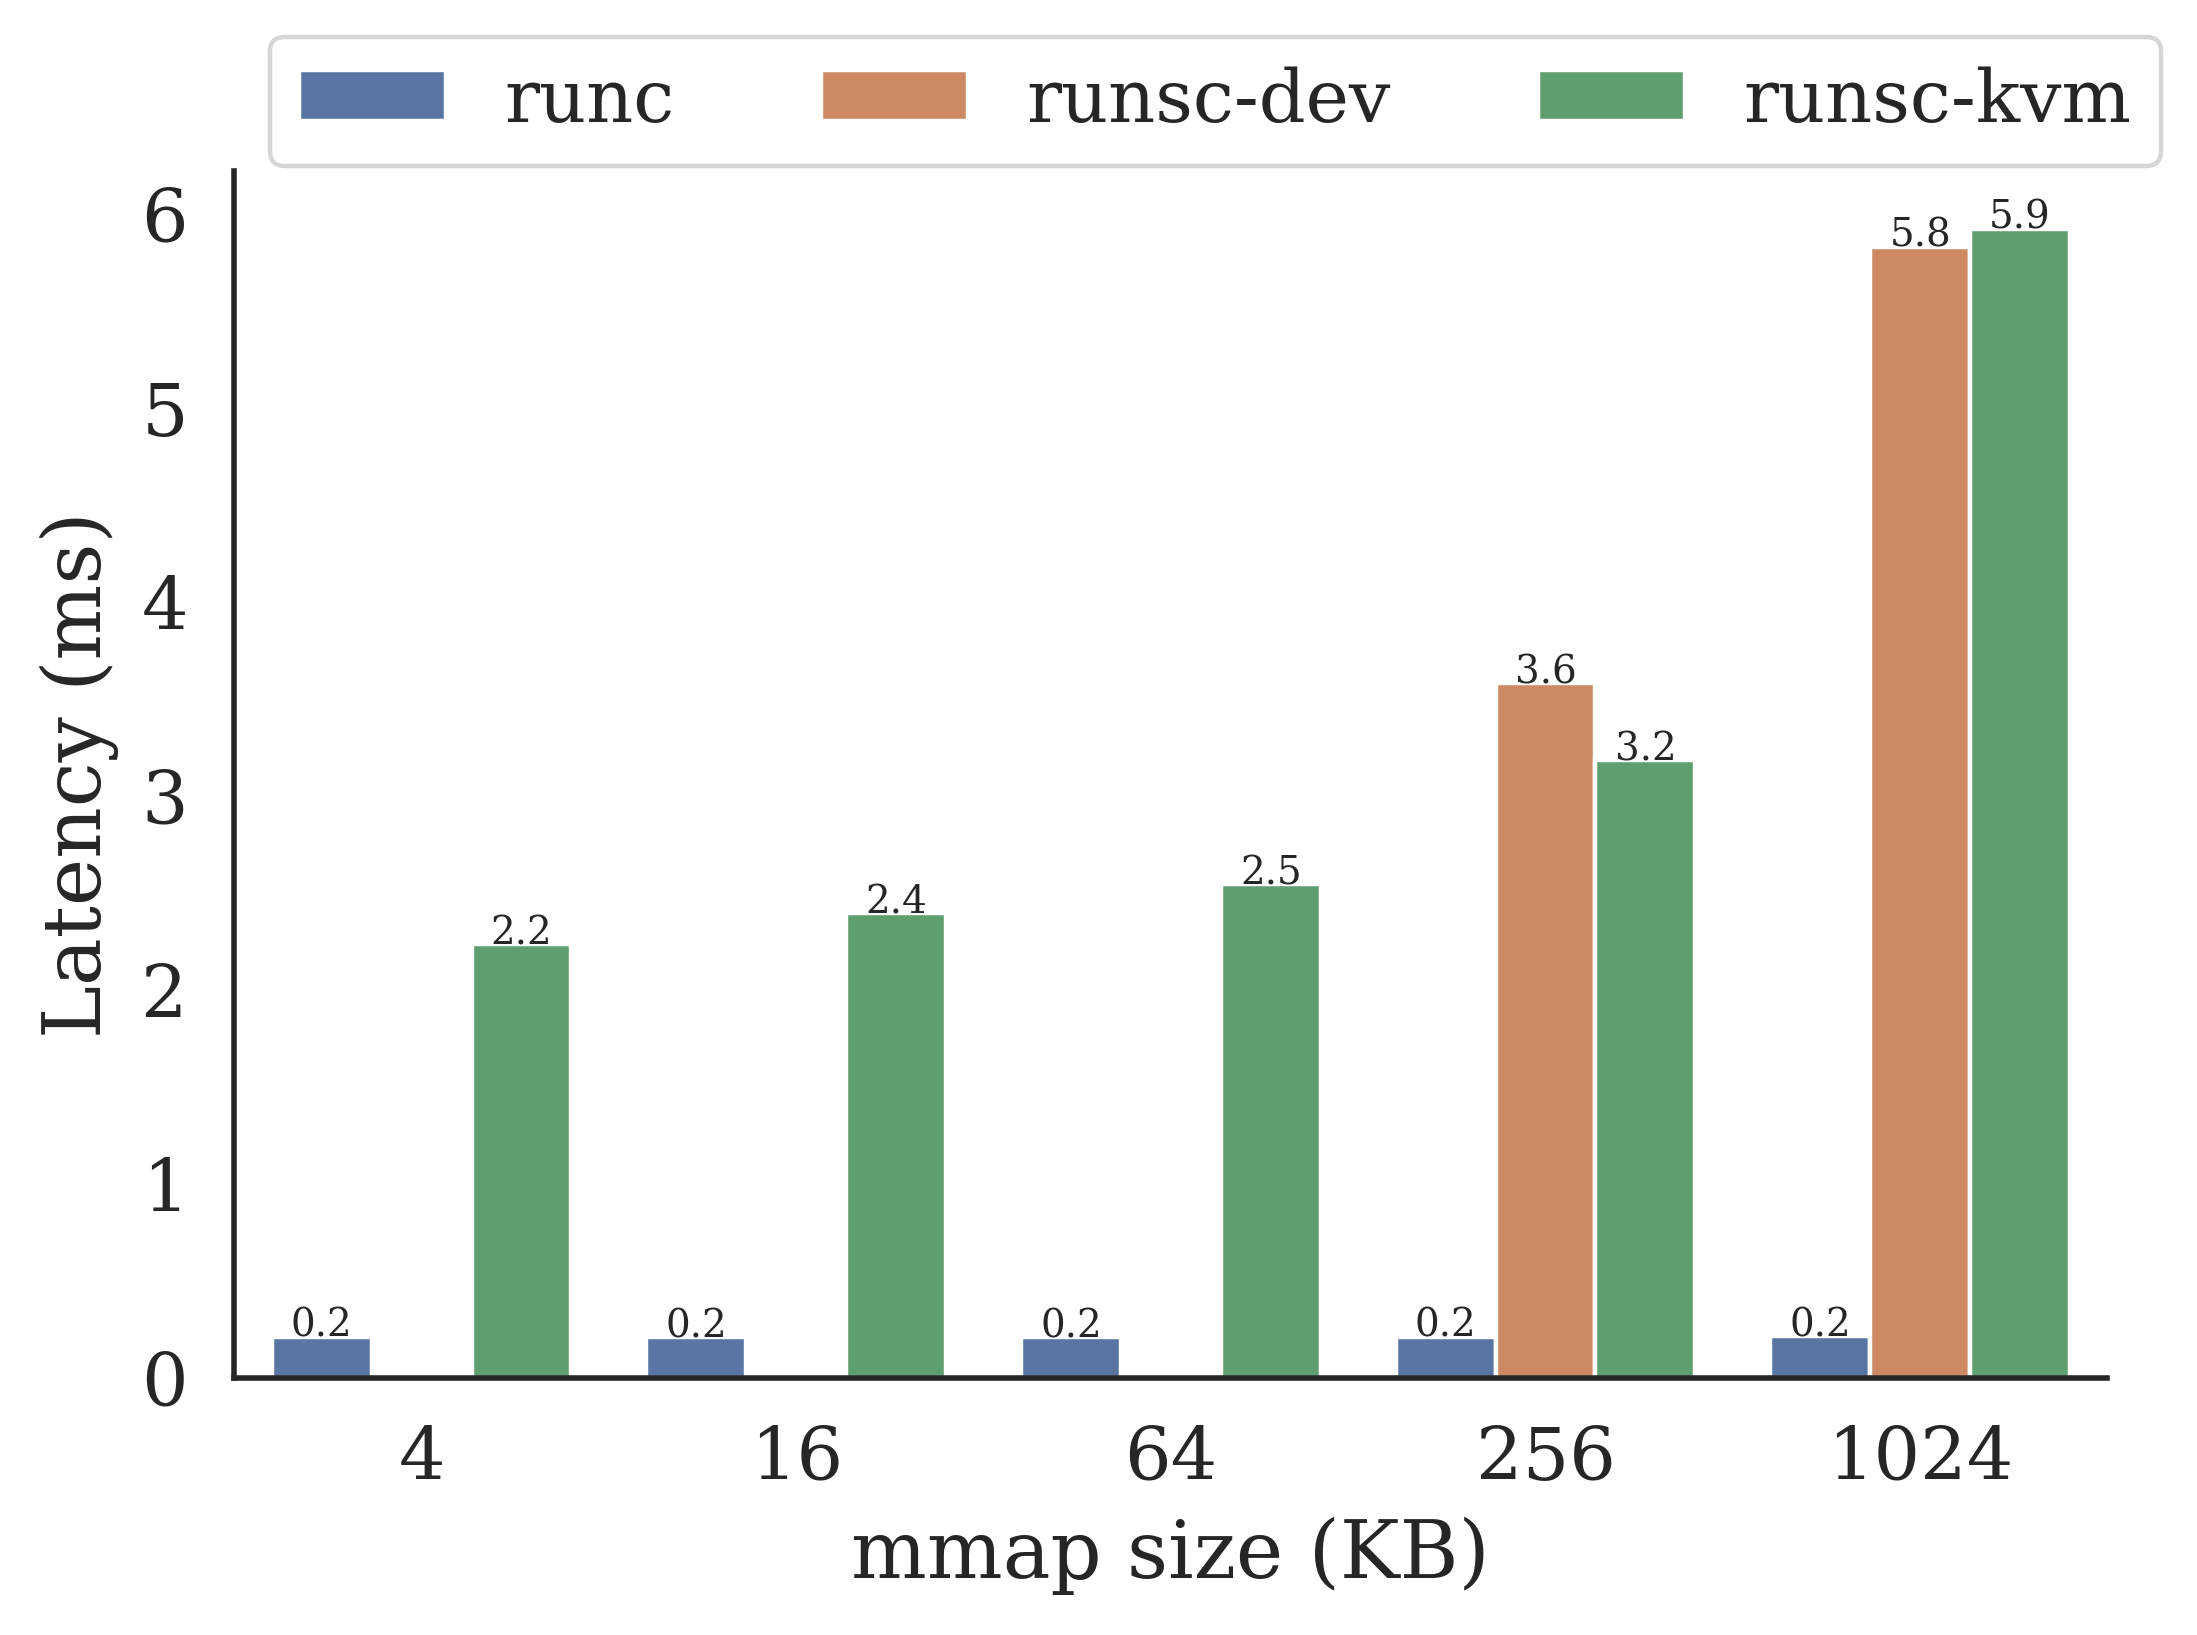
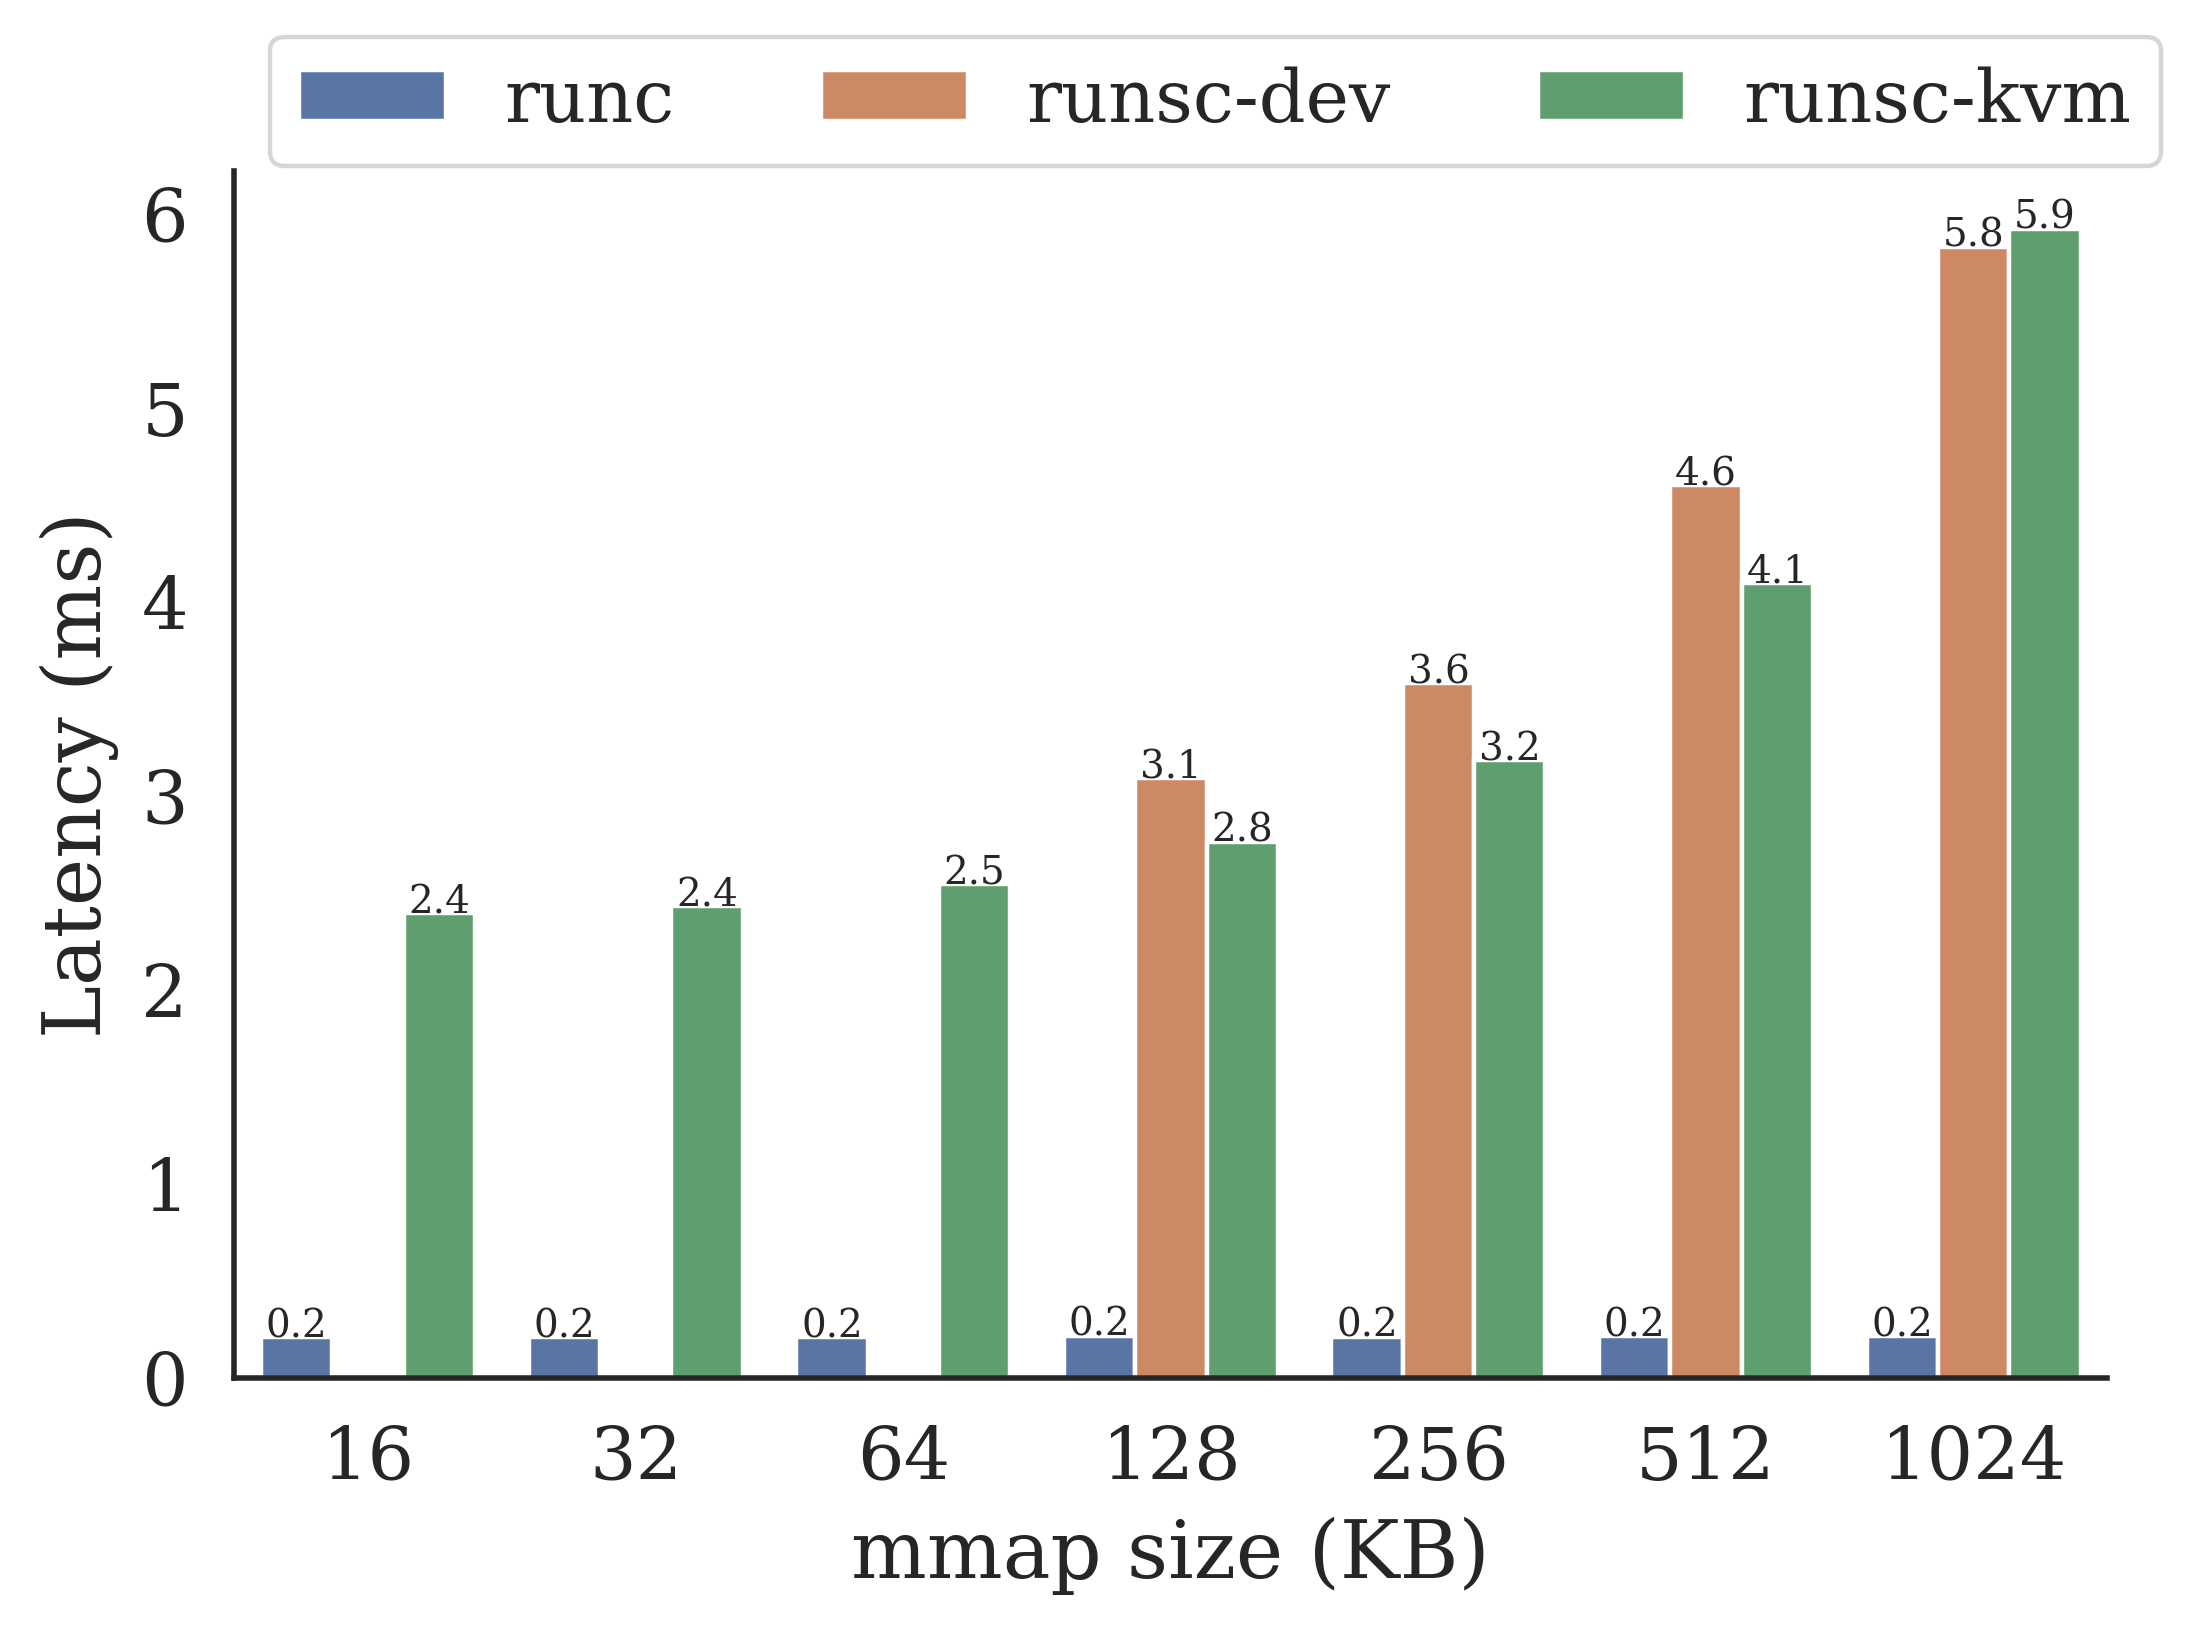
Update plots

diff --git a/data/final/plot-exp1-bench.py b/data/final/plot-exp1-bench.py
@@ -16,15 +16,18 @@ data_dir = args.data_dir
 
 # Read data
 df = tb.read_exp_mmap(data_dir)
-df = df[df["mmap_size_kb"].isin([16, 32, 64, 128, 256, 512, 1024])]
+valid_iterations = set(df[df["runtime"] == "runc"]["iterations"])
+df = df[df["iterations"].isin(valid_iterations)]
+df = df[df["runtime"].isin(["runc", "runsc-kvm"])]
 operation = df["operation"].iloc[0]
 
 # Make plot
 sns.set(context="paper", style="white", font="serif", font_scale=1.5)
 g = sns.catplot(
-    x="mmap_size_kb",
+    x="iterations",
     y="latency_ms",
-    hue="runtime",
+    hue="mmap_size_kb",
+    col="runtime",
     data=df,
     kind="bar",
     ci=None,
@@ -33,10 +36,11 @@ g = sns.catplot(
     legend_out=False,
 )
 tb.show_values_on_bars(g.axes)
-g.set_axis_labels("mmap size (KB)", "Latency (ms)")
+g.set_axis_labels("Iterations", "Latency (ms)")
 h, l = g.axes[0][0].get_legend_handles_labels()
 g.axes[0][0].legend_.remove()
-g.fig.legend(h, l, ncol=3)
+g.fig.legend(h, l, ncol=3, title="mmap size (KB)",
+    bbox_to_anchor=(0.31, 0.7), loc="center")
 g.fig.tight_layout()
 g.fig.subplots_adjust(top=0.9)
 g.savefig(args.output, dpi=400)

diff --git a/data/final/plot-exp2-bench.py b/data/final/plot-exp2-bench.py
@@ -16,7 +16,8 @@ data_dir = args.data_dir
 
 # Read data
 df = tb.read_exp_mmap(data_dir)
-df = df[df["mmap_size_kb"].isin([16, 32, 64, 128, 256, 512, 1024])]
+# df = df[df["mmap_size_kb"].isin([16, 32, 64, 128, 256, 512, 1024])]
+df = df[df["runtime"].isin(["runc", "runsc-kvm"])]
 operation = df["operation"].iloc[0]
 
 # Make plot
@@ -24,7 +25,8 @@ sns.set(context="paper", style="white", font="serif", font_scale=1.5)
 g = sns.catplot(
     x="mmap_size_kb",
     y="latency_ms",
-    hue="runtime",
+    hue="iterations",
+    col="runtime",
     data=df,
     kind="bar",
     ci=None,
@@ -34,9 +36,9 @@ g = sns.catplot(
 )
 tb.show_values_on_bars(g.axes)
 g.set_axis_labels("mmap size (KB)", "Latency (ms)")
-h, l = g.axes[0][0].get_legend_handles_labels()
+# h, l = g.axes[0][0].get_legend_handles_labels()
 g.axes[0][0].legend_.remove()
-g.fig.legend(h, l, ncol=3)
-g.fig.tight_layout()
-g.fig.subplots_adjust(top=0.9)
+# g.fig.legend(h, l, ncol=3)
+# g.fig.tight_layout()
+# g.fig.subplots_adjust(top=0.9)
 g.savefig(args.output, dpi=400)
